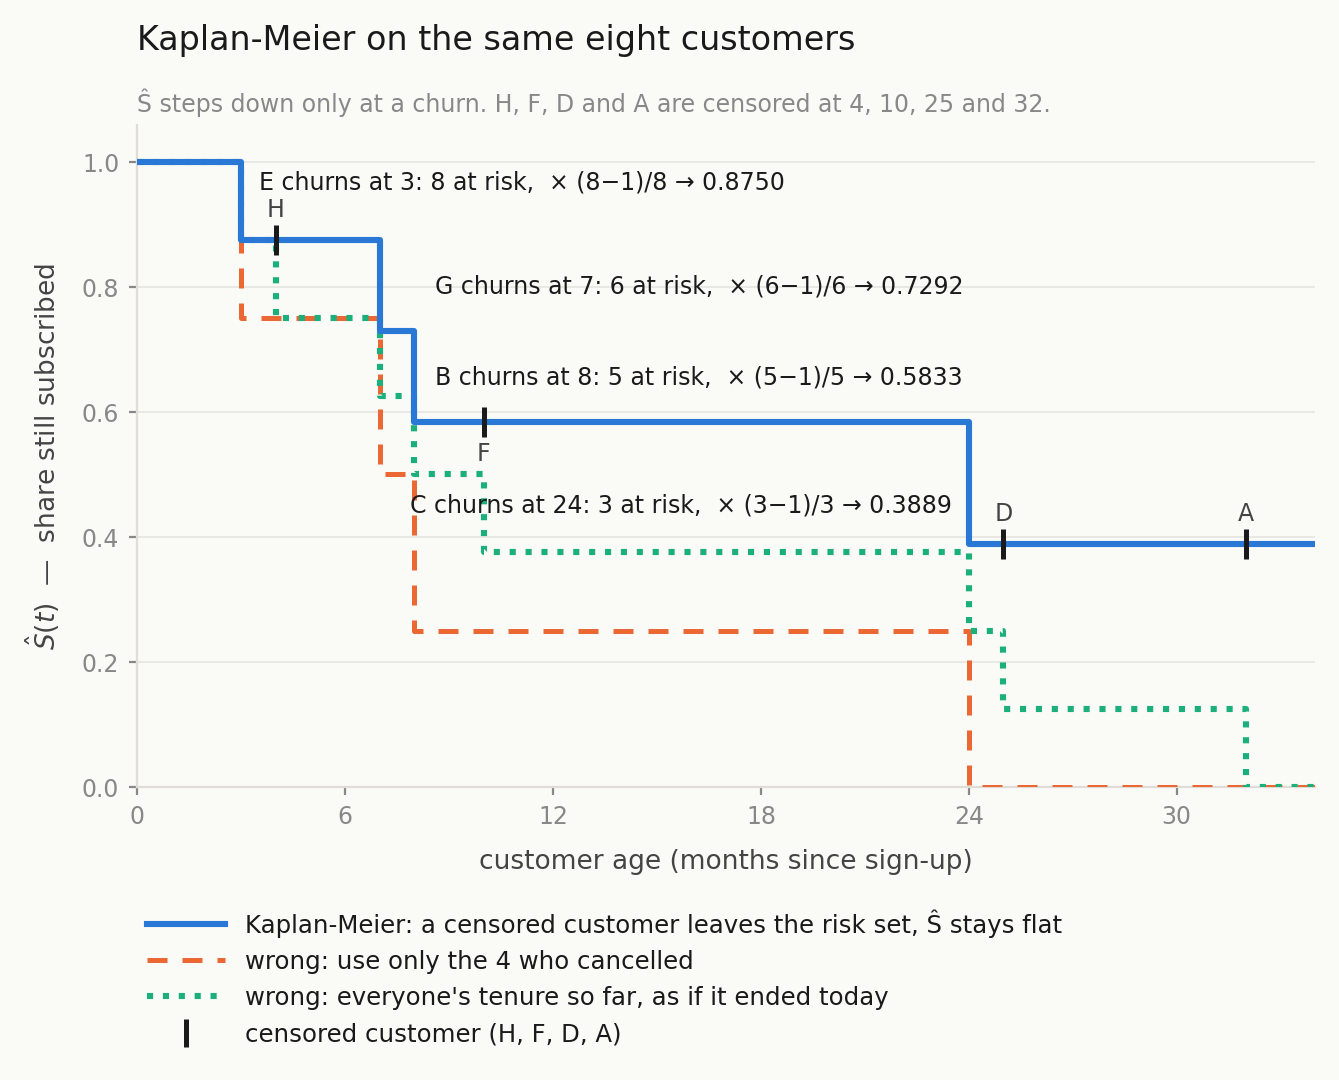
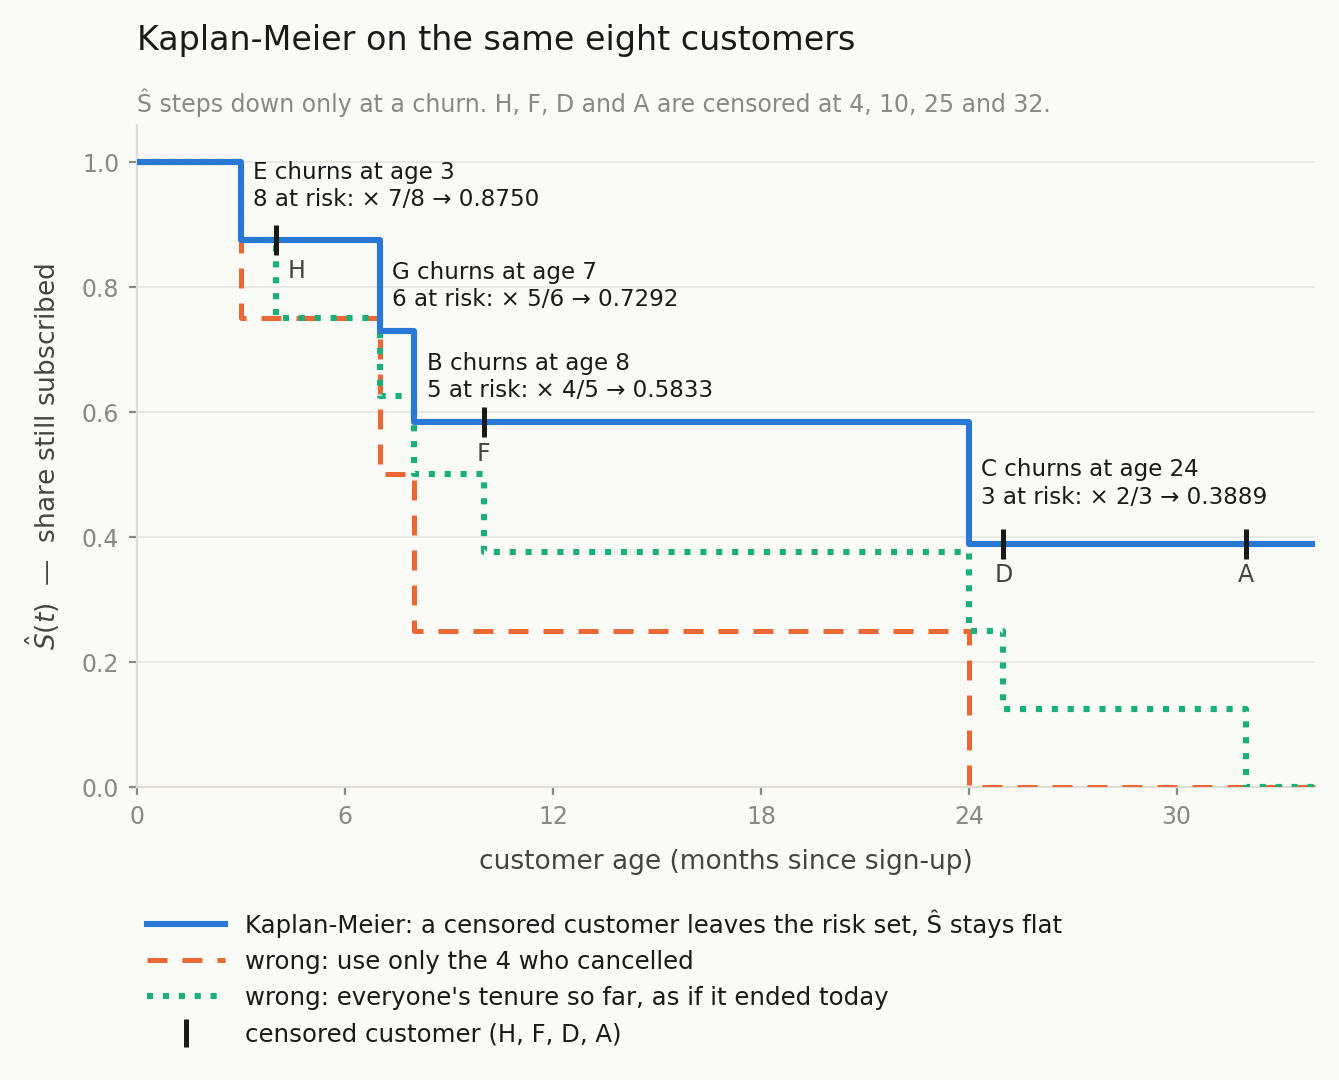
deploy: auto-update from shleeneu/mktg-analytics-course-backup 2026-10-06 21:27 UTC

diff --git a/lecture_notes/lecture_04_survival_analysis.md b/lecture_notes/lecture_04_survival_analysis.md
@@ -34,7 +34,7 @@ P(A | B) means "the probability of A given that B has already happened."
 
 **Key formula:** P(A | B) = P(A and B) / P(B)
 
-**Why this matters for churn:** "60% of customers churned by month 24" (unconditional) is a very different statement from "60% of customers who survived to month 12 churned by month 24" (conditional). The first includes early churners; the second asks about long-tenured customers specifically.
+**Why this matters for churn:** "60% of customers churned within 24 months of signing up" (unconditional) is a very different statement from "60% of customers who survived to month 12 churned by month 24" (conditional). The first includes early churners; the second asks about long-tenured customers specifically.
 
 ---
 
@@ -50,7 +50,7 @@ Each fraction is slightly less than 1. Multiplying them gives the cumulative sur
 
 #### Tool 3: The Hazard — a Rate Among Those Still at Risk
 
-Write **T** for a customer's churn time — the month they cancel. The survival function is $S(t) = P(T > t)$: the probability a customer is still subscribed after month $t$.
+Write **T** for a customer's churn time: their **age** when they cancel, in months since that customer signed up. The survival function is $S(t) = P(T > t)$: the probability a customer is still subscribed at age $t$. Every $t$ in this lecture is customer age, not a calendar date. "Month 2" means two months after *that customer* signed up: March 2024 for a customer who joined in January 2024, August 2026 for one who joined in June 2026. Section 1.3 shows the two clocks side by side.
 
 Of the customers still subscribed at the start of a month, what share cancel during it? That share is the month's **discrete hazard**:
 
@@ -98,13 +98,21 @@ Survival analysis gives you both: the long-run picture (the survival curve) and 
 
 Traditional regression requires observing the outcome for every observation. But with churn, many customers are still active when you run the analysis — you do not know when (or whether) they will eventually churn.
 
-A customer who joined 18 months ago and is still active is **censored**: you know they survived at least 18 months, but not how long they will ultimately stay. Throwing away censored observations would bias your survival estimates downward (making churn appear faster than it is). Treating them as churned at the censoring point would be wrong too.
+**Who is censored.** Every customer still active on the analysis date is **right-censored at their current age**: the analysis date minus their join date, in months. You know they survived at least that long, but not how long they will ultimately stay. This is not only the customers who joined just before the analysis. A customer who joined 32 months ago and is still active is censored at 32. Customers join on many dates and the analysis has one date, so censoring happens at many ages: long-tenured customers are censored old, recent joiners are censored young.
 
-**Kaplan-Meier handles censoring correctly** by updating the risk set at each event time: a customer censored at month 18 contributes to the risk set at all earlier event times but not later ones.
+**A second cause: lost to follow-up.** A customer is also censored, earlier, when you stop being able to observe them: a gap in the data, or an account migrated to another system. They are censored at their age when the record ends. HW04's data has only the first kind.
+
+In this lecture, **t is always customer age** (months since sign-up), never a calendar month. Panel (a) below shows eight illustrative customers on the calendar; panel (b) slides each line back to start at sign-up, which is the axis Kaplan-Meier uses.
 
 ![Two panels showing the same eight illustrative customers A to H. Panel (a), calendar time from Jan 2024 to Oct 2026: each customer is a line from their join date; B, C, E and G end in a cross (churned); A, D and H run to a dashed analysis-date line at Oct 2026 and end in an open circle (still active, censored); F ends in an open circle in Mar 2026, lost to follow-up. Panel (b): the same lines slid back to start at 0 on a customer-age axis, months since sign-up: churned at ages 8, 24, 3 and 7; censored at ages 32, 25, 10 and 4.](figures/lecture_04_calendar_vs_age.png)
 
+**Two common mistakes, both made before any survival model is run.** (1) Keeping only the customers who cancelled, for example computing "average customer lifetime" as the average tenure of cancelled customers. Everyone left has churned, so Ŝ must reach 0 at the last churn age, however loyal the customer base is. The bias is worst for recent cohorts: a cohort that joined four months ago can only show churns within four months, so it is described entirely by its fastest leavers. (2) Treating censored customers as churned at their current age, for example averaging `tenure_months` over everyone. Every still-active customer is counted as leaving today. Both make survival look shorter than it is.
+
+**Kaplan-Meier handles censoring correctly**: a censored customer counts in the risk set at every churn age up to their censoring age, then leaves it without making Ŝ step down.
+
 ![Kaplan-Meier step function for the same eight customers on a customer-age axis: 1.0 until age 3, then 0.875 (8 at risk), 0.7292 at age 7 (6 at risk), 0.5833 at age 8 (5 at risk), 0.3889 at age 24 (3 at risk), with tick marks where H, F, D and A are censored at ages 4, 10, 25 and 32. Two more lines show two wrong ways. Orange dashed, using only the four who cancelled: 0.75, 0.50, 0.25 and 0 by age 24. Green dotted, treating everyone's tenure so far as if it ended today: a step down at every one of the eight exits, 0.875 to 0 by age 32.](figures/lecture_04_km_eight_customers.png)
+
+**The assumption behind it.** Kaplan-Meier assumes censoring is **non-informative**: a customer censored at age t would have churned like the customers still at risk at age t. With censoring at the analysis date, that means newer cohorts are assumed to churn the way older cohorts did at the same age. If a recent cohort churns faster (say it was acquired with a deep discount), the curve's later ages, estimated only from older cohorts, will overstate its survival.
 
 ---
 
@@ -122,7 +130,7 @@ where n_t is the number of customers at risk just before time t, and d_t is the 
 
 **Worked example:**
 
-| Month | Events (churned) | At risk | Survival step | Ŝ(t) |
+| Age t (months since sign-up) | Events (churned) | At risk | Survival step | Ŝ(t) |
 |---|---|---|---|---|
 | 0 | — | 200 | — | 1.0000 |
 | 2 | 8 | 200 | (200−8)/200 = 0.9600 | **0.9600** |
@@ -230,7 +238,7 @@ The slides ask five different questions (only Q3 repeats). Their answers are the
 
 3. A Cox model reports HR = 1.42 for support_tickets_last_30d. A customer filed 3 tickets. What is their relative hazard compared to a customer with 0 tickets?
 
-4. A customer has been inactive for 18 months but has not formally cancelled. Are they: (a) censored, (b) churned at month 18, (c) still fully in the risk set?
+4. A customer joined 30 months ago, has not logged in for the last 6 months, and has not cancelled. On today's analysis date, are they (a) censored, (b) churned, or (c) neither? If censored, at what age?
 
 5. The proportional hazards assumption says hazard ratios are constant over time. Why would this assumption fail for the "age of subscription" feature?
 
@@ -255,8 +263,8 @@ The slides ask five different questions (only Q3 repeats). Their answers are the
 
 > **Also asked on the slides:** *"'Customers who call support churn faster, so we should stop offering phone support.' What's wrong with this reasoning?"* — It reads an association as a cause. A Cox hazard ratio is **associational**: HR > 1 says the covariate *predicts* faster churn, not that it *causes* it, and establishing cause would require randomising who receives support (Lecture 7). Support contacts are what Part B of the worked example calls "a meaningful early-warning signal of potential churn" — customers call *because* something has already gone wrong. Removing phone support removes the signal, not the problem, and plausibly makes churn worse by closing the one channel where the problem could still be fixed. The analytics response is to **use** the signal: when a customer's ticket volume rises, find and fix the problem behind the tickets. An intervention that misses the cause, such as a blanket discount, leaves the risk in place.
 
-**Q4.** **(a) Censored.** If the customer has not formally cancelled, you observe them as active up to your analysis date. They are censored at 18 months — you know they survived at least 18 months but not what happens afterward.
-*Common wrong answer:* Churned at month 18. Censoring means you lost track of the outcome, not that the outcome was bad. Treating censored customers as churned biases the survival curve downward.
+**Q4.** **(a) Censored, at age 30.** Churn here means cancelling, and they have not cancelled, so there is no churn event. They are still active on the analysis date, so they are censored at their current age: 30 months since sign-up. You know they survived at least 30 months but not what happens afterward. The 6 months of inactivity do not change their age; they are a warning sign you could feed into a Cox model, not a churn.
+*Common wrong answer:* "Not censored: only customers who joined just before the analysis date are censored." Every customer still active on the analysis date is censored, at their current age; recent joiners are only censored *younger*. Two other slips: "censored at 6" (inactivity time is not age) and "churned at 24" (when they went quiet; that would be a different churn definition, which you would have to adopt for every customer before the analysis). Treating censored customers as churned biases the survival curve downward.
 
 **Q5.** New subscribers typically have high churn hazard (many try and leave quickly). Long-tenured subscribers have lower hazard (they've demonstrated loyalty). The hazard of a new subscriber relative to a 3-year subscriber is very high at month 1 but converges over time — the ratio is not constant. Any feature that is correlated with customer lifecycle stage will likely violate proportional hazards.
 *Common wrong answer:* "It fails because some customers are more loyal than others." Heterogeneity in levels of loyalty does not violate the assumption — it's about the ratio of hazards being constant over time, not about absolute hazard levels.
@@ -276,7 +284,7 @@ The slides ask five different questions (only Q3 repeats). Their answers are the
 
 Seven subscription customers, observed from signup:
 
-| Customer | Tenure (months) | Status |
+| Customer | Age at churn or censoring (months since sign-up) | Status |
 |---|---|---|
 | C1 | 2 | Churned |
 | C2 | 4 | Churned |
